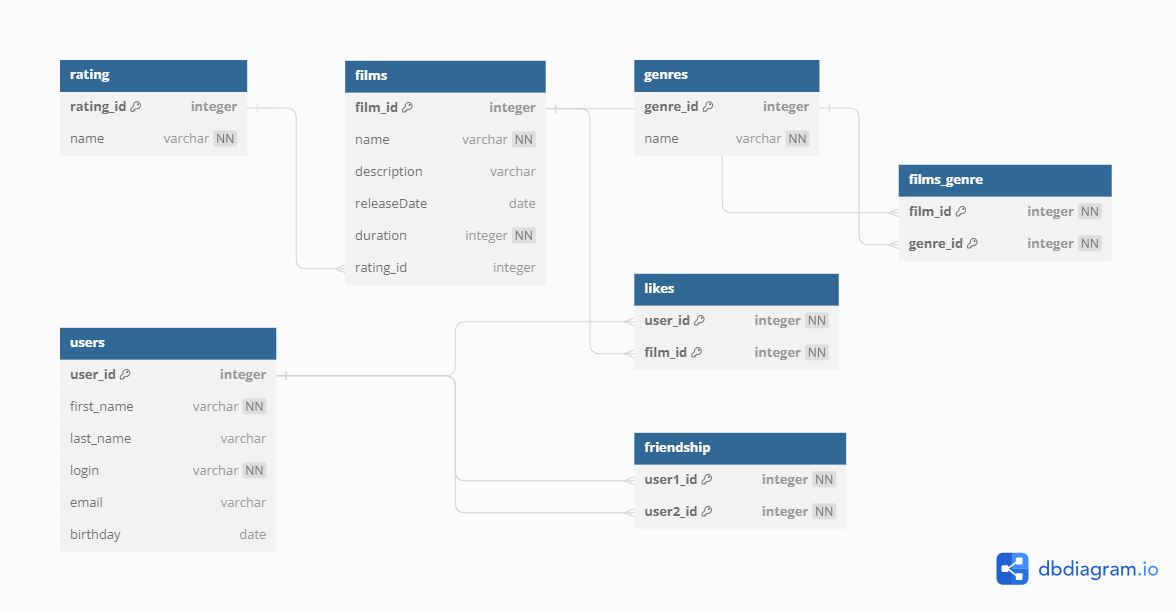
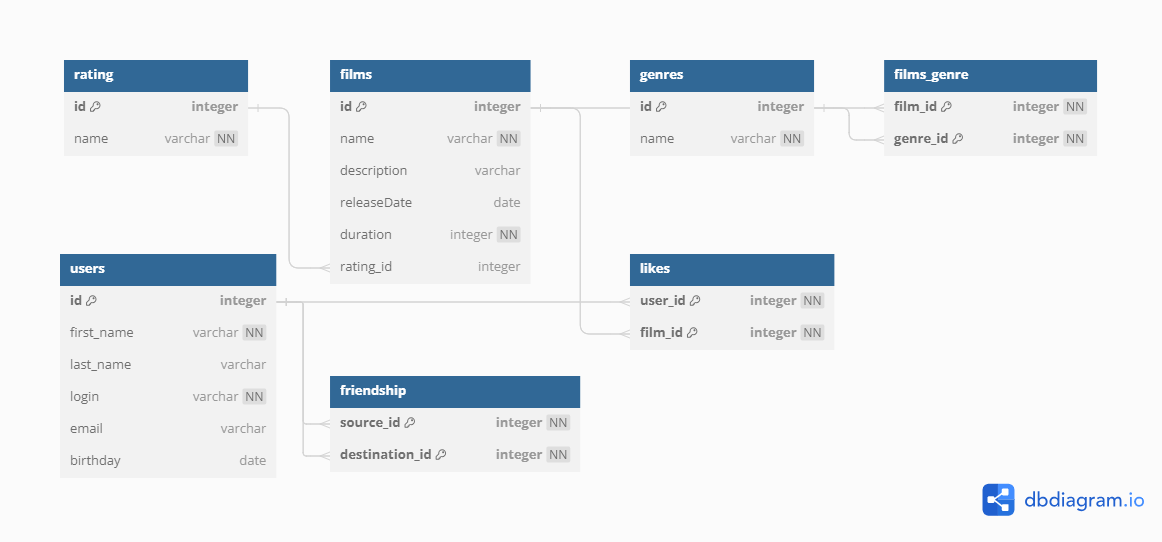
Модификация схемы, простое имя id для первичного ключа

diff --git a/README.md b/README.md
@@ -7,32 +7,32 @@
 
 ```sql
 CREATE TABLE rating (
-  rating_id integer GENERATED BY DEFAULT AS IDENTITY PRIMARY KEY,
+  id integer GENERATED BY DEFAULT AS IDENTITY PRIMARY KEY,
   name varchar UNIQUE NOT NULL
 );
 
 CREATE TABLE films (
-  film_id integer GENERATED BY DEFAULT AS IDENTITY PRIMARY KEY,
+  id integer GENERATED BY DEFAULT AS IDENTITY PRIMARY KEY,
   name varchar NOT NULL,
   description varchar,
   releaseDate date,
   duration integer NOT NULL CHECK (duration > 0),
-  rating_id integer REFERENCES rating (rating_id) ON DELETE CASCADE
+  rating_id integer REFERENCES rating (id) ON DELETE CASCADE
 );
 
 CREATE TABLE genres (
-  genre_id integer GENERATED BY DEFAULT AS IDENTITY PRIMARY KEY,
+  id integer GENERATED BY DEFAULT AS IDENTITY PRIMARY KEY,
   name varchar UNIQUE NOT NULL
 );
 
 CREATE TABLE films_genre (
-  film_id integer REFERENCES films (film_id) ON DELETE CASCADE NOT NULL,
-  genre_id integer REFERENCES genres (genre_id) ON DELETE CASCADE NOT NULL,
+  film_id integer REFERENCES films (id) ON DELETE CASCADE NOT NULL,
+  genre_id integer REFERENCES genres (id) ON DELETE CASCADE NOT NULL,
   PRIMARY KEY (film_id, genre_id)
 );
 
 CREATE TABLE users (
-  user_id integer GENERATED BY DEFAULT AS IDENTITY PRIMARY KEY,
+  id integer GENERATED BY DEFAULT AS IDENTITY PRIMARY KEY,
   first_name varchar NOT NULL,
   last_name varchar,
   login varchar UNIQUE NOT NULL,
@@ -42,14 +42,14 @@ CREATE TABLE users (
 );
 
 CREATE TABLE friendship (
-  user1_id integer REFERENCES users (user_id) ON DELETE CASCADE NOT NULL,
-  user2_id integer REFERENCES users (user_id) ON DELETE CASCADE NOT NULL,
-  PRIMARY KEY (user1_id, user2_id)
+  source_id integer REFERENCES users (id) ON DELETE CASCADE NOT NULL,
+  destination_id integer REFERENCES users (id) ON DELETE CASCADE NOT NULL,
+  PRIMARY KEY (source_id, destination_id)
 );
 
 CREATE TABLE likes (
-  user_id integer REFERENCES users (user_id) ON DELETE CASCADE NOT NULL,
-  film_id integer REFERENCES films (film_id) ON DELETE CASCADE NOT NULL,
+  user_id integer REFERENCES users (id) ON DELETE CASCADE NOT NULL,
+  film_id integer REFERENCES films (id) ON DELETE CASCADE NOT NULL,
   PRIMARY KEY (user_id, film_id)
 );
 ```
